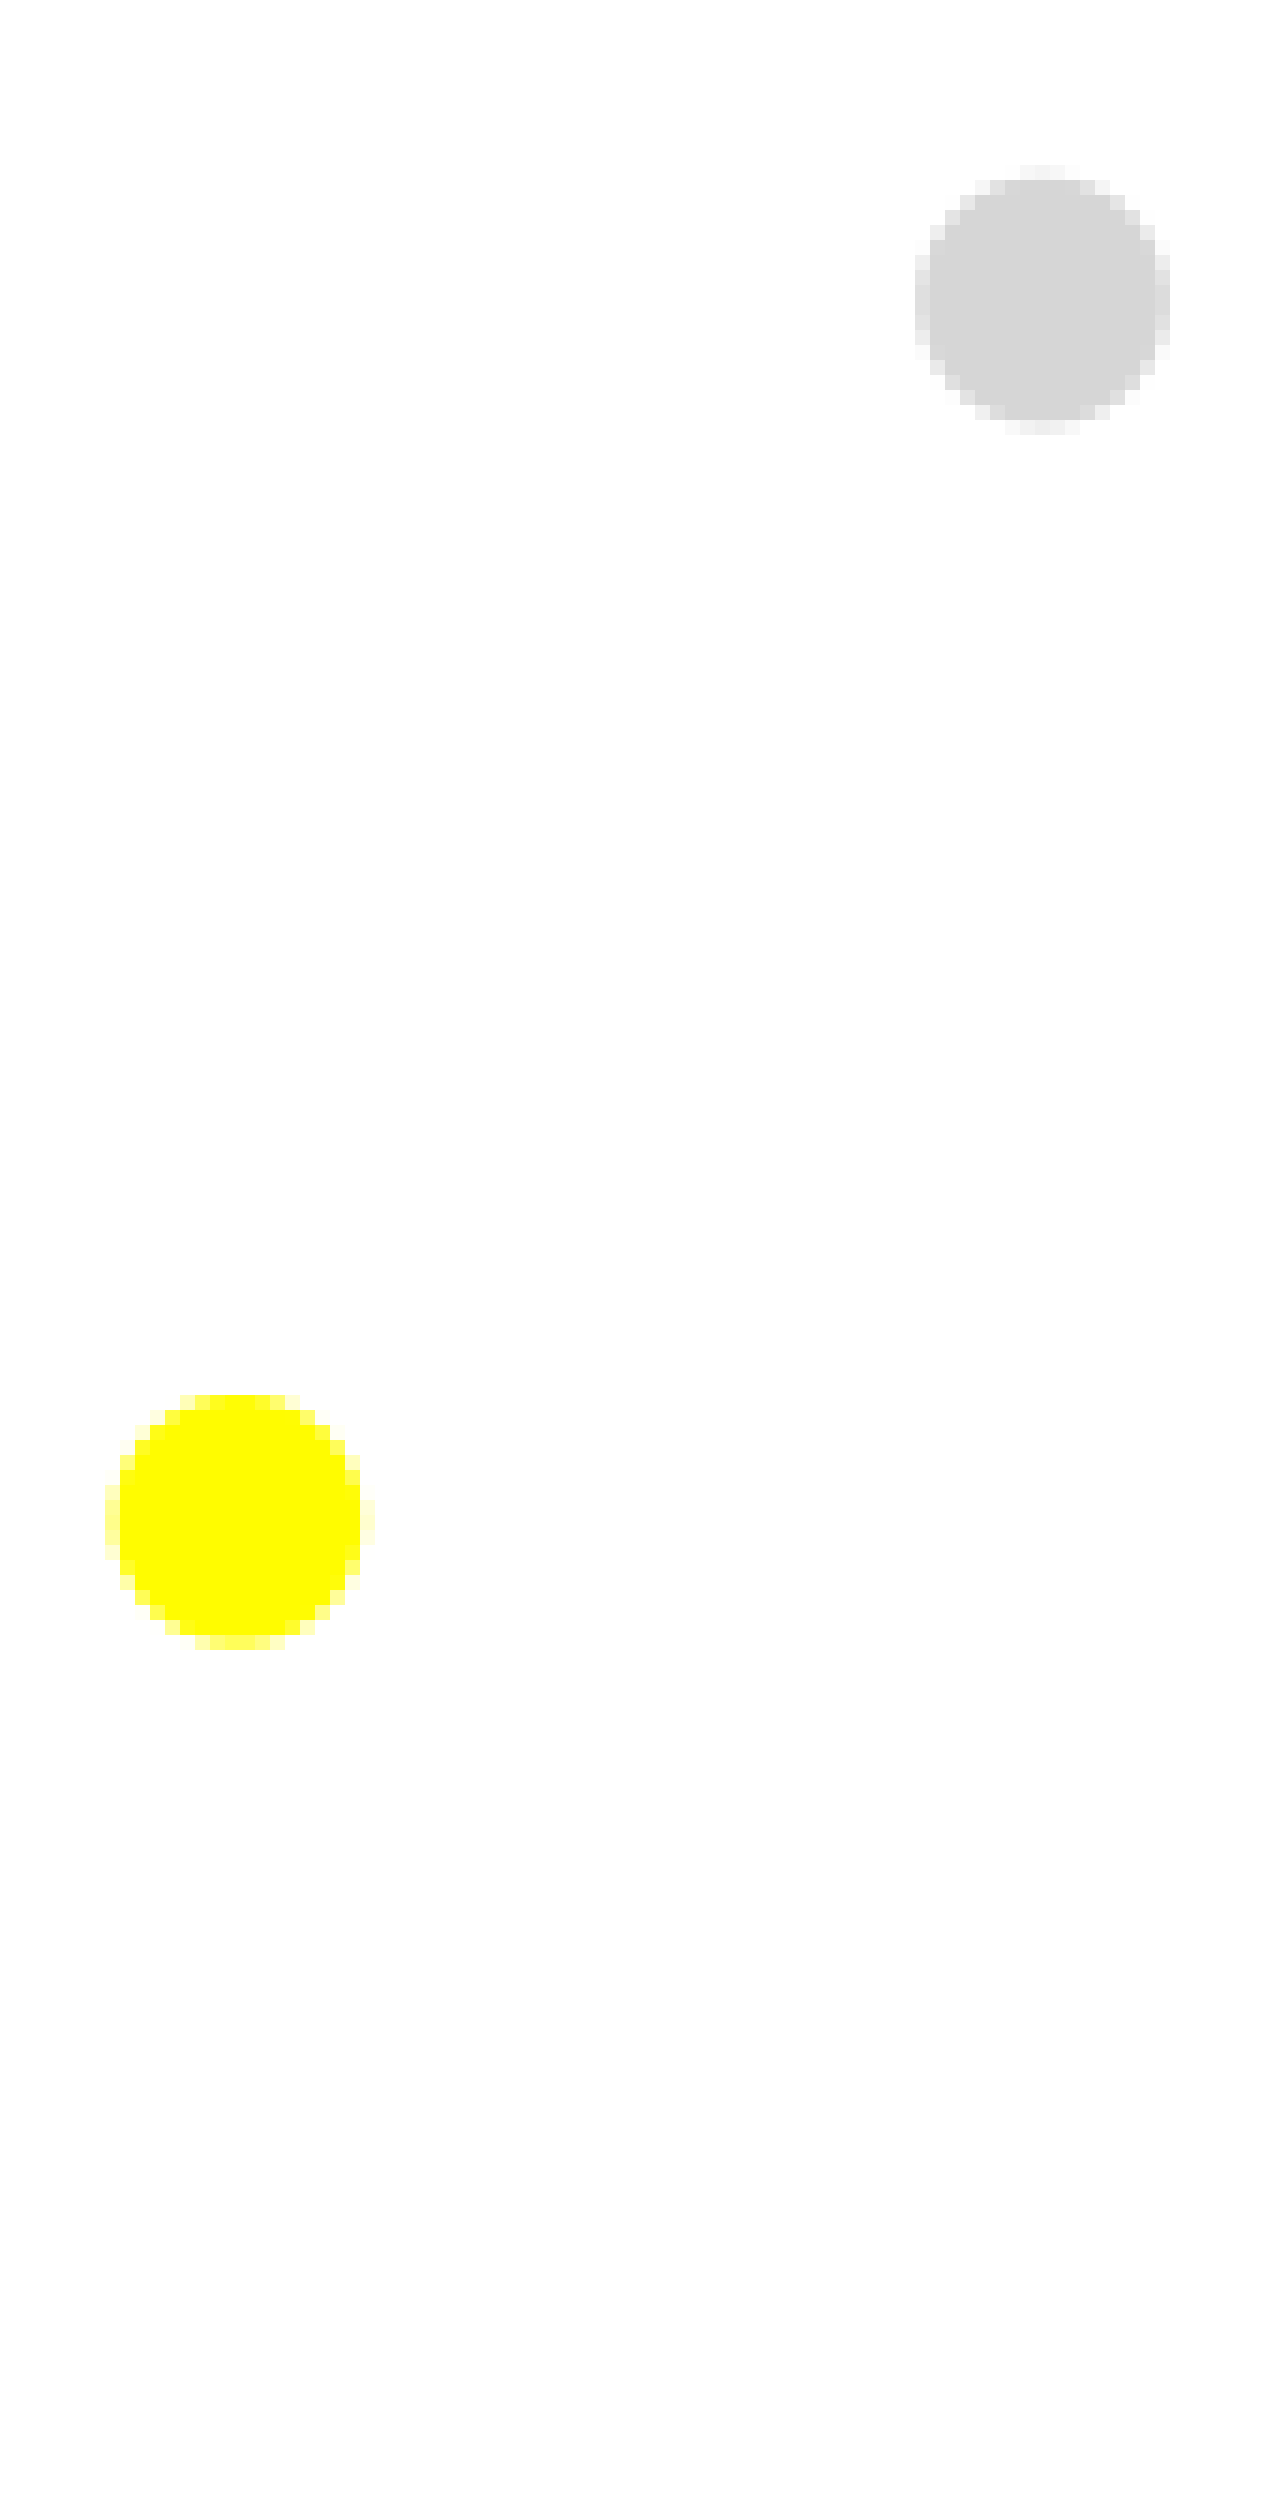
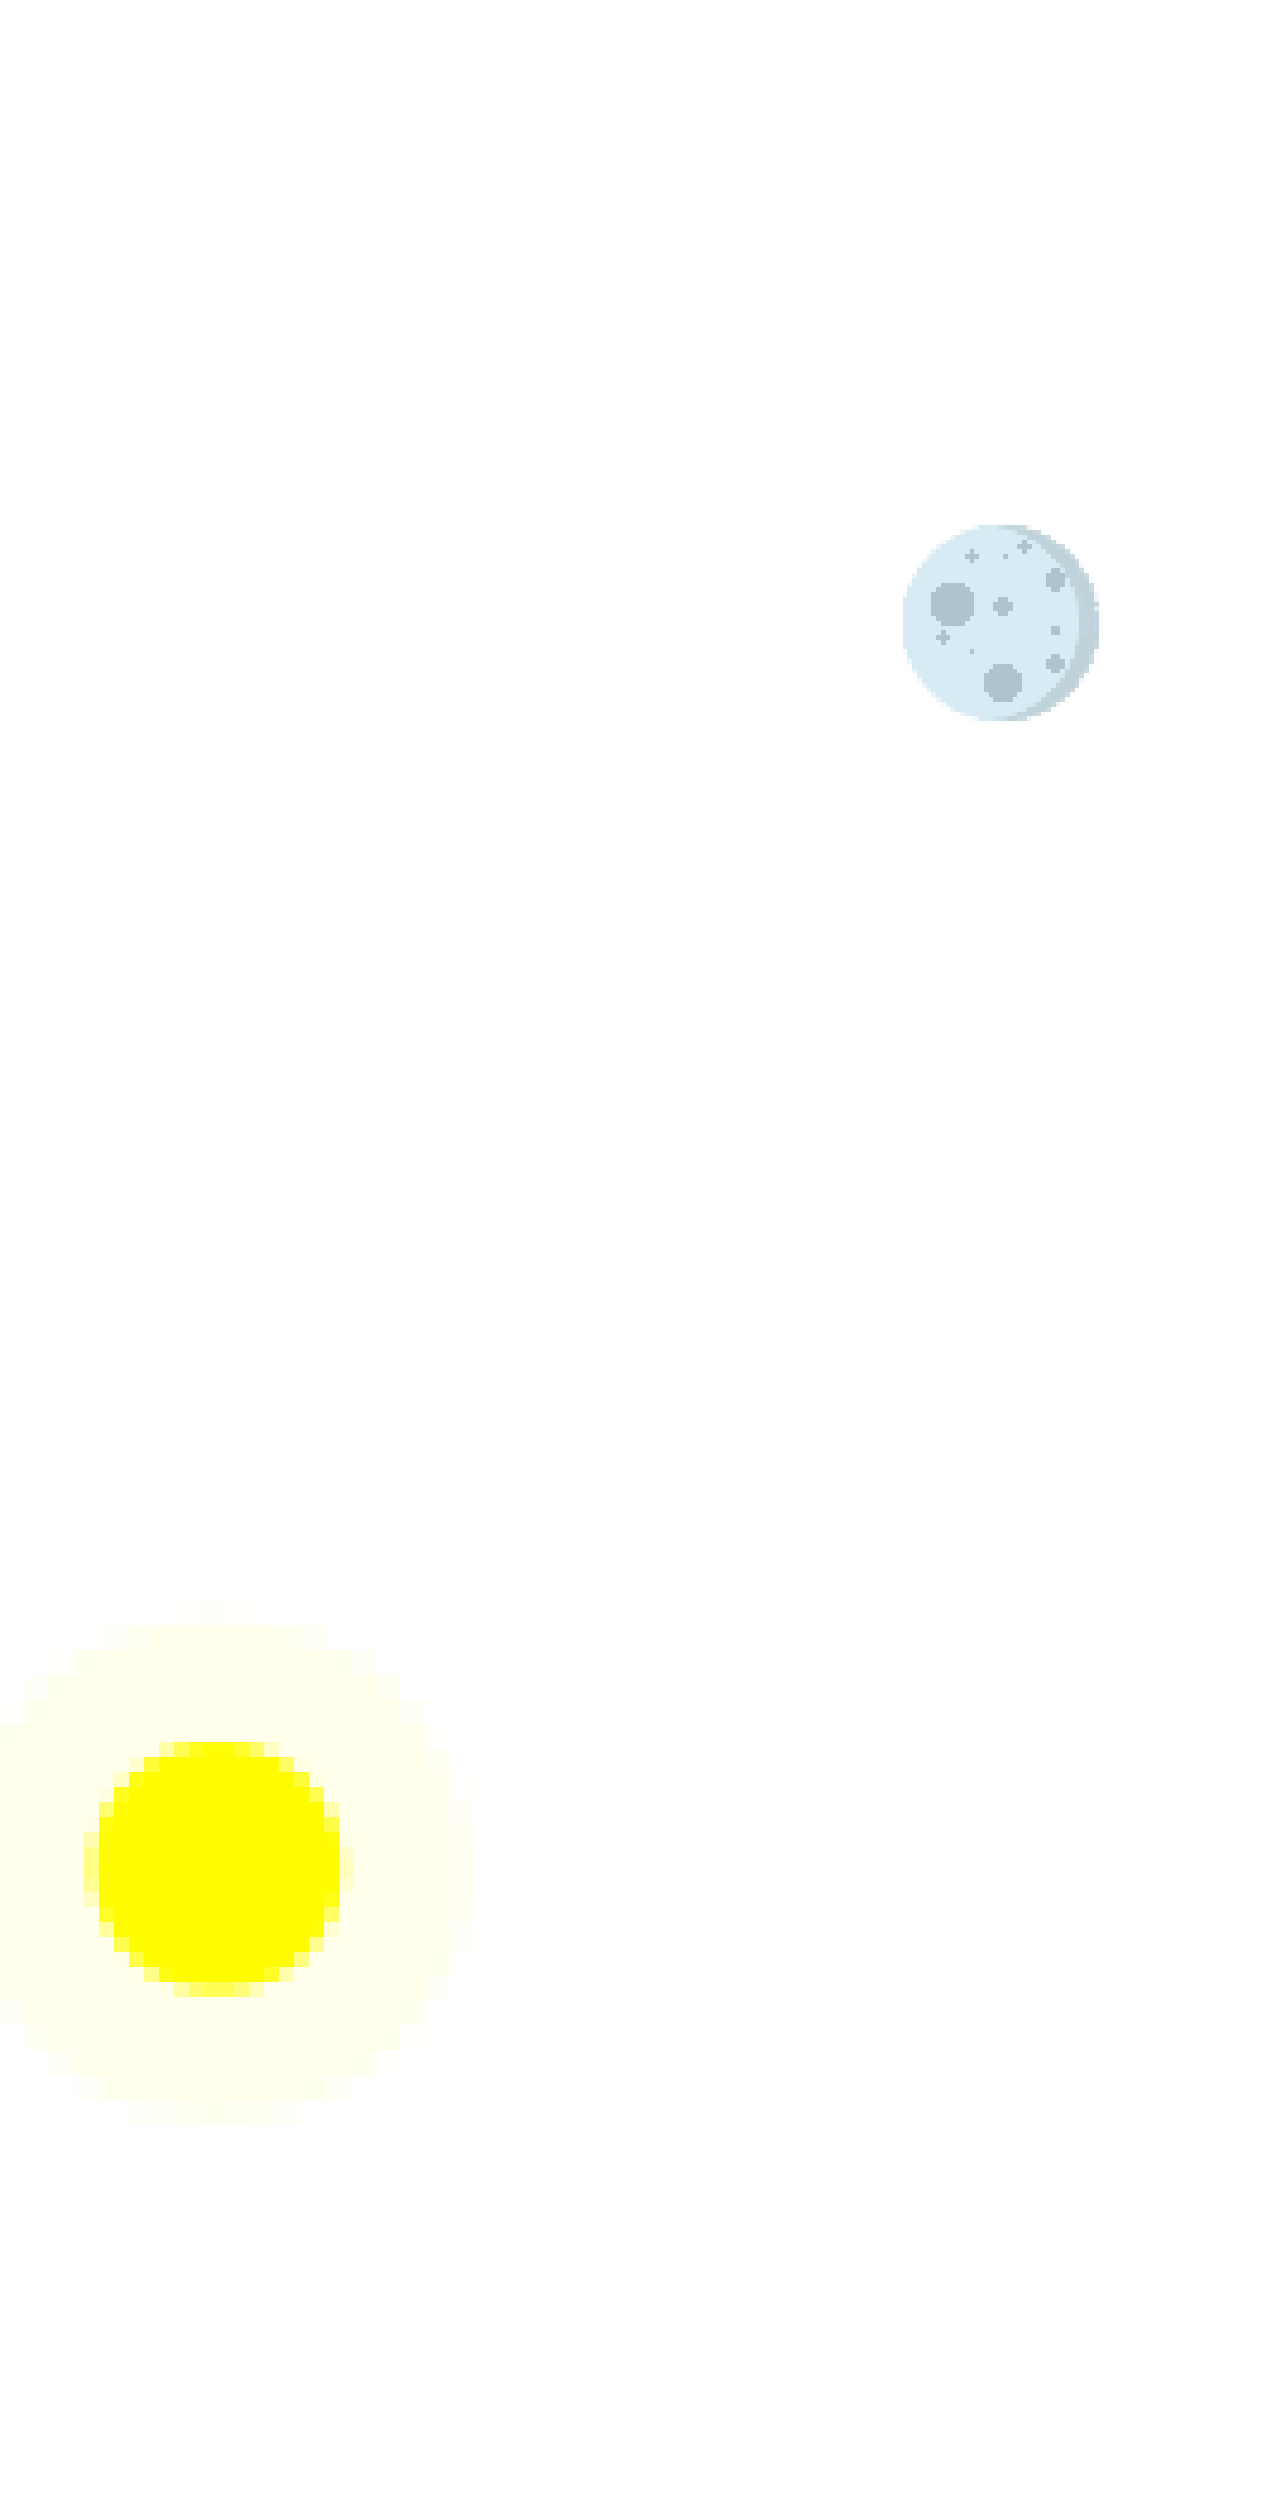
Boton info,cambio assets boton play

Changed region(s): [[0.0625, 0.5304, 0.3125, 0.8112], [0.6875, 0.0624, 0.9375, 0.312]]

diff --git a/core/src/mx/itesm/eko/BotonDinamico.java b/core/src/mx/itesm/eko/BotonDinamico.java
@@ -39,6 +39,14 @@ public class BotonDinamico {
         timerAnimacion=0;
     }
 
+    public void cargarTexturasBtnInfo(){
+
+        animacion=new Animation(0.20f,texturaPartidaP[0][0],texturaPartidaP[0][1],texturaPartidaP[0][2],texturaPartidaP[0][3],texturaPartidaP[0][4],texturaPartidaP[0][5],texturaPartidaP[0][6]);
+
+        animacion.setPlayMode(Animation.PlayMode.LOOP);
+        timerAnimacion=0;
+    }
+
     public void render(SpriteBatch batch) {
         if (estado==EstadoMovimiento.OPRIMIDO){
             timerAnimacion+= Gdx.graphics.getDeltaTime();
